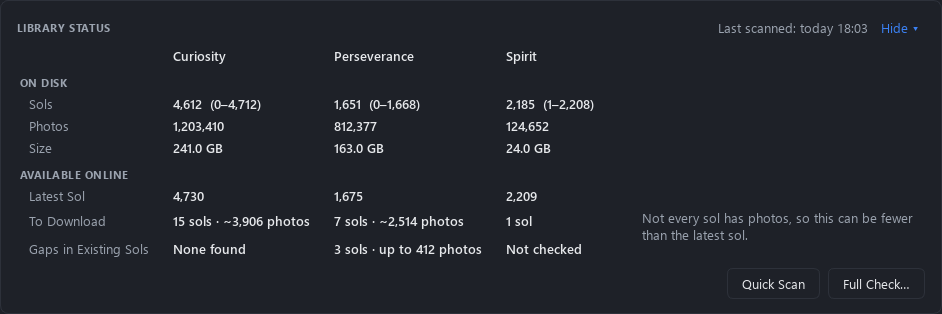
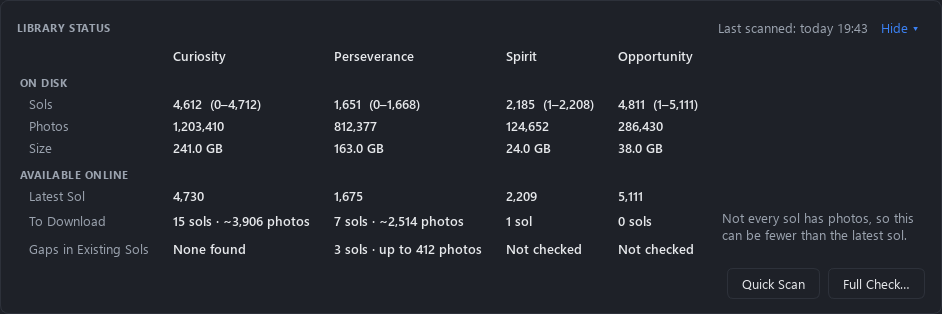
Library status always shows every rover, ticked or not (#26)
Spirit and Opportunity had a column only while ticked. Every rover now has its column; an unticked rover shows the numbers from its last scan (Quick Scan and Full Check still cover the ticked rovers). README text and pictures updated.

diff --git a/rover_scraper/gui.py b/rover_scraper/gui.py
@@ -64,8 +64,7 @@ LATEST_THUMB = 96           # pixels: the Latest Photo thumbnail in the Progress
 # Where keyring keeps the API key on this system, for the window's wording.
 KEY_STORE = ("Windows Credential Manager" if os.name == "nt" else
              "the macOS Keychain" if sys.platform == "darwin" else "your system's keyring")
-ALL_ROVERS = SUPPORTED_ROVERS
-MAIN_ROVERS = ("Curiosity", "Perseverance")          # always shown in Library status
+ALL_ROVERS = SUPPORTED_ROVERS                        # Library status always shows every rover, ticked or not
 
 
 # ---- formatting ------------------------------------------------------------------------------------------
@@ -1098,7 +1097,6 @@ class MainWindow(QMainWindow):
                 box.setToolTip("Photos come from NASA's Planetary Data System archive (no Mars Vista requests).")
             box.toggled.connect(lambda _=False, n=name: self._rover_toggled(n))
             box.toggled.connect(self._validate)
-            box.toggled.connect(lambda _=False: self._update_library_columns())
             row.addWidget(box)
             status = label("N/A", "muted")
             status.setAlignment(Qt.AlignmentFlag.AlignRight | Qt.AlignmentFlag.AlignVCenter)
@@ -1478,7 +1476,6 @@ class MainWindow(QMainWindow):
                                                                      else "hour"))
         self._loading = False
         self._update_camera_toggles()
-        self._update_library_columns()
         self._set_log_visible(s.show_log)
         self._apply_folded_cards()
         if self.checkpoint:
@@ -2322,16 +2319,6 @@ class MainWindow(QMainWindow):
         self._validate()
         self._refresh_library()
         return True
-
-    def _update_library_columns(self) -> None:
-        """Library status shows a column for each ticked rover (Curiosity and Perseverance always)."""
-        if not hasattr(self, "lib_heads"):
-            return
-        for rover in ALL_ROVERS:
-            show = rover in MAIN_ROVERS or self.rover_boxes[rover].isChecked()
-            self.lib_heads[rover].setVisible(show)
-            for row in self.lib_rows:
-                self.lib_cells[(row, rover)].setVisible(show)
 
     def _camera_filter(self) -> dict[str, set[str]] | None:
         out = {}

diff --git a/README.md b/README.md
@@ -74,10 +74,11 @@ Unticking a rover unticks its cameras; ticking it again brings back the cameras 
 
 ### Library status
 
-![The Library Status card: sols, photos and size on disk for Curiosity, Perseverance and Spirit, and the latest sol, what's left to download and gaps found online](.github/readme/library.png)
+![The Library Status card: sols, photos and size on disk for all four rovers, and the latest sol, what's left to download and gaps found online](.github/readme/library.png)
 
-What's in your folder and what's online, for each rover. *Quick Scan* counts both. *Full Check* also finds gaps
-inside the sols you have; it uses about one Mars Vista request per sol, so it asks first.
+What's in your folder and what's online, for every rover, ticked or not. *Quick Scan* counts both for the ticked
+rovers; the others keep the numbers from their last scan. *Full Check* also finds gaps inside the sols you have; it
+uses about one Mars Vista request per sol, so it asks first.
 
 ### Progress and API usage
 
